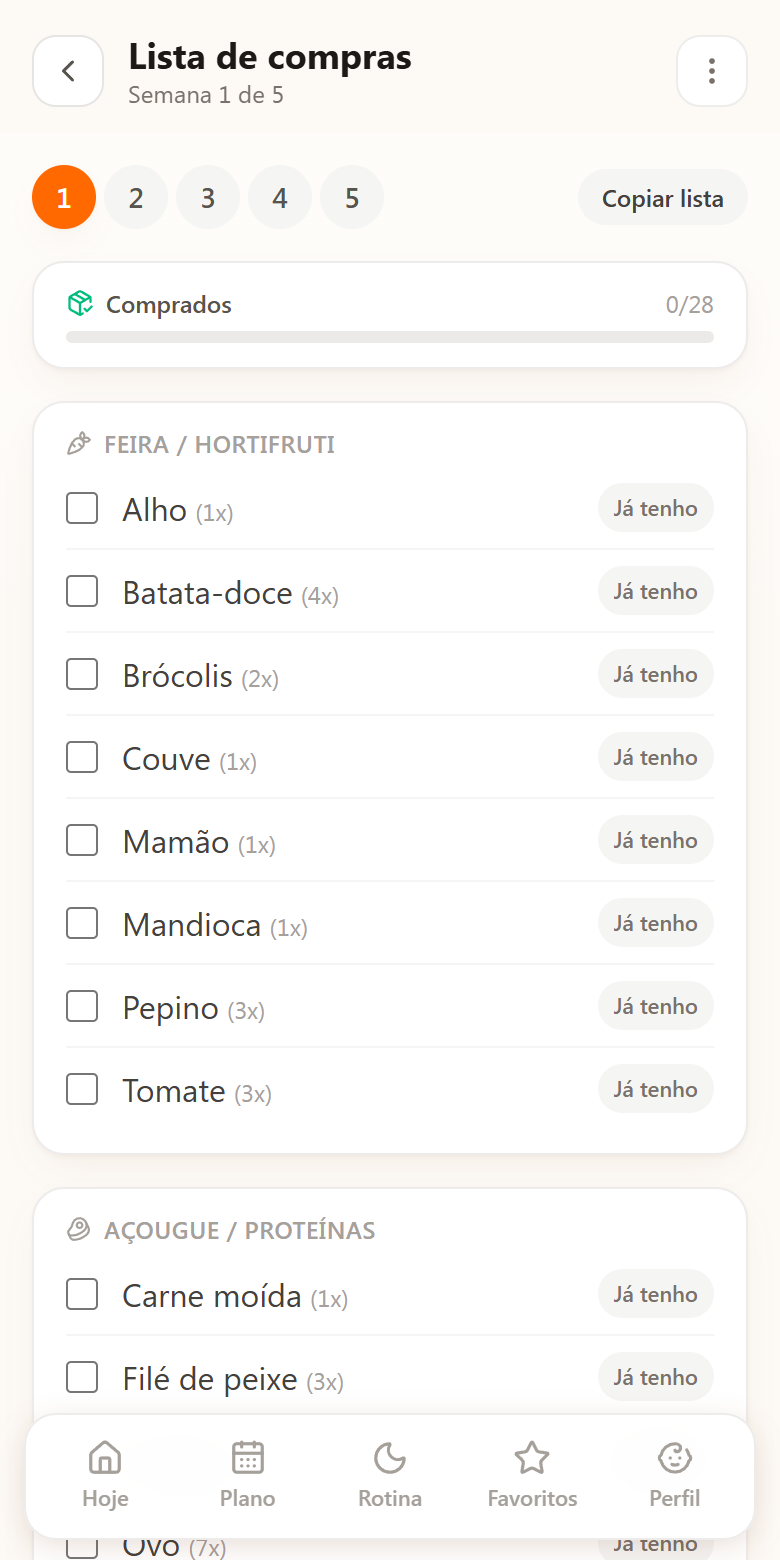
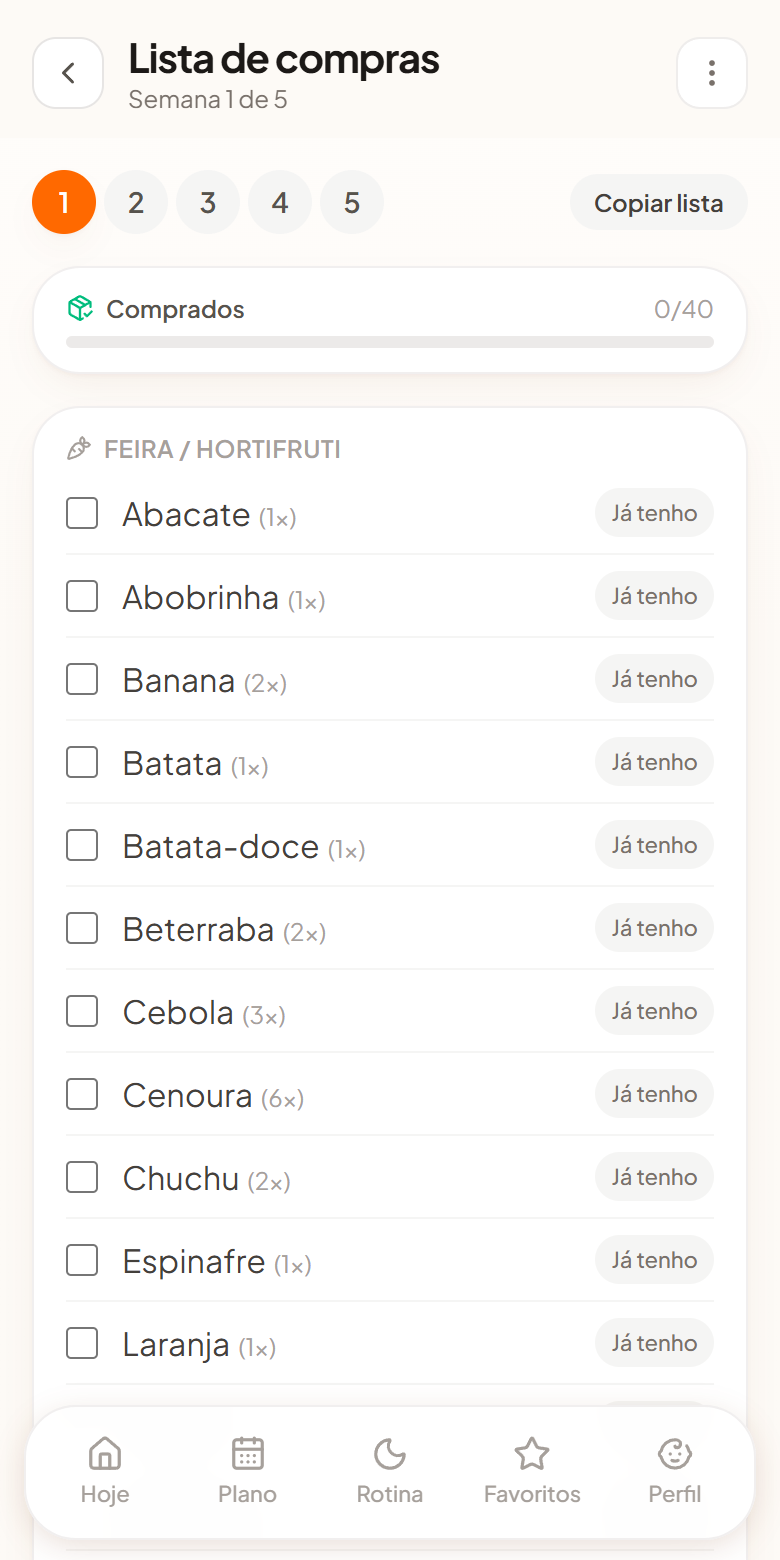
Prints da hero atualizados + exclusão de contas no admin
- public/screens/*.png regenerados com o design novo (via conta demo).
  screenshots.mjs aceita SCREENS_EMAIL/SCREENS_SENHA por env.
- Admin: botão "Excluir" por usuário em /admin/usuarios (com confirmação),
  ação deletarUsuario com guardas (não apaga admin, a si mesmo, nem conta
  com assinatura real no Stripe). Cascateia perfis/assinatura/solicitações.

diff --git a/src/app/admin/usuarios/DeletarUsuarioButton.tsx b/src/app/admin/usuarios/DeletarUsuarioButton.tsx
@@ -1,0 +1,54 @@
+"use client";
+
+import { useState, useTransition } from "react";
+import { deletarUsuario } from "@/lib/actions/adminUsuarios";
+import { Trash2 } from "lucide-react";
+
+export default function DeletarUsuarioButton({ userId, nome }: { userId: string; nome: string }) {
+  const [pending, start] = useTransition();
+  const [confirmando, setConfirmando] = useState(false);
+  const [erro, setErro] = useState<string | null>(null);
+
+  function excluir() {
+    setErro(null);
+    start(async () => {
+      const r = await deletarUsuario(userId);
+      if (r?.error) {
+        setErro(r.error);
+        setConfirmando(false);
+      }
+    });
+  }
+
+  if (confirmando) {
+    return (
+      <span className="flex items-center gap-1.5">
+        <button
+          onClick={excluir}
+          disabled={pending}
+          className="rounded-lg bg-rose-600 px-2.5 py-1 text-xs font-semibold text-white transition hover:bg-rose-700 disabled:opacity-60"
+        >
+          {pending ? "Excluindo…" : `Excluir ${nome}`}
+        </button>
+        <button
+          onClick={() => setConfirmando(false)}
+          className="rounded-lg px-2 py-1 text-xs text-stone-500 hover:bg-stone-100"
+        >
+          Cancelar
+        </button>
+      </span>
+    );
+  }
+
+  return (
+    <span className="flex items-center gap-2">
+      <button
+        onClick={() => setConfirmando(true)}
+        className="flex items-center gap-1 rounded-lg px-2 py-1 text-xs font-medium text-rose-600 transition hover:bg-rose-50"
+      >
+        <Trash2 size={13} /> Excluir
+      </button>
+      {erro && <span className="text-[11px] text-rose-500">{erro}</span>}
+    </span>
+  );
+}

diff --git a/src/lib/actions/adminUsuarios.ts b/src/lib/actions/adminUsuarios.ts
@@ -1,0 +1,41 @@
+"use server";
+
+import { revalidatePath } from "next/cache";
+import { db } from "@/lib/db";
+import { requireAdmin } from "@/lib/admin";
+
+/**
+ * Exclui uma conta pelo painel admin (para limpar contas de teste).
+ * A exclusão cascateia perfis, assinatura e solicitações da conta.
+ *
+ * Guardas de segurança:
+ * - não exclui contas de administrador;
+ * - não permite excluir a si mesmo;
+ * - recusa contas com assinatura REAL no Stripe (deletar aqui deixaria a
+ *   cobrança viva no Stripe) — nesse caso, cancele no Stripe antes.
+ */
+export async function deletarUsuario(userId: string): Promise<{ error?: string } | void> {
+  const session = await requireAdmin();
+
+  const alvo = await db.user.findUnique({
+    where: { id: userId },
+    include: { subscription: true },
+  });
+  if (!alvo) return { error: "Usuário não encontrado." };
+  if (alvo.id === session.user.id) return { error: "Você não pode excluir a própria conta." };
+  if (alvo.role === "ADMIN") return { error: "Contas de administrador não podem ser excluídas por aqui." };
+  if (alvo.subscription?.stripeSubscriptionId) {
+    return { error: "Assinatura ativa no Stripe. Cancele no Stripe antes de excluir a conta." };
+  }
+
+  await db.user.delete({ where: { id: userId } });
+  await db.auditLog.create({
+    data: {
+      userId: session.user.id,
+      evento: "usuario_excluido",
+      detalhes: `Conta ${alvo.email} excluída pelo admin.`,
+    },
+  });
+
+  revalidatePath("/admin/usuarios");
+}

diff --git a/src/app/admin/usuarios/page.tsx b/src/app/admin/usuarios/page.tsx
@@ -1,5 +1,6 @@
 import { db } from "@/lib/db";
 import Badge from "@/components/ui/Badge";
+import DeletarUsuarioButton from "./DeletarUsuarioButton";
 
 const STATUS_LABEL: Record<string, string> = {
   TESTE: "Em teste",
@@ -26,6 +27,7 @@ export default async function AdminUsuariosPage() {
               <th className="px-4 py-3">Perfis</th>
               <th className="px-4 py-3">Assinatura</th>
               <th className="px-4 py-3">Criado em</th>
+              <th className="px-4 py-3">Ações</th>
             </tr>
           </thead>
           <tbody>
@@ -42,6 +44,9 @@ export default async function AdminUsuariosPage() {
                     </Badge>
                   </td>
                   <td className="px-4 py-3 text-stone-400">{u.createdAt.toLocaleDateString("pt-BR")}</td>
+                  <td className="px-4 py-3">
+                    <DeletarUsuarioButton userId={u.id} nome={u.name} />
+                  </td>
                 </tr>
               );
             })}
